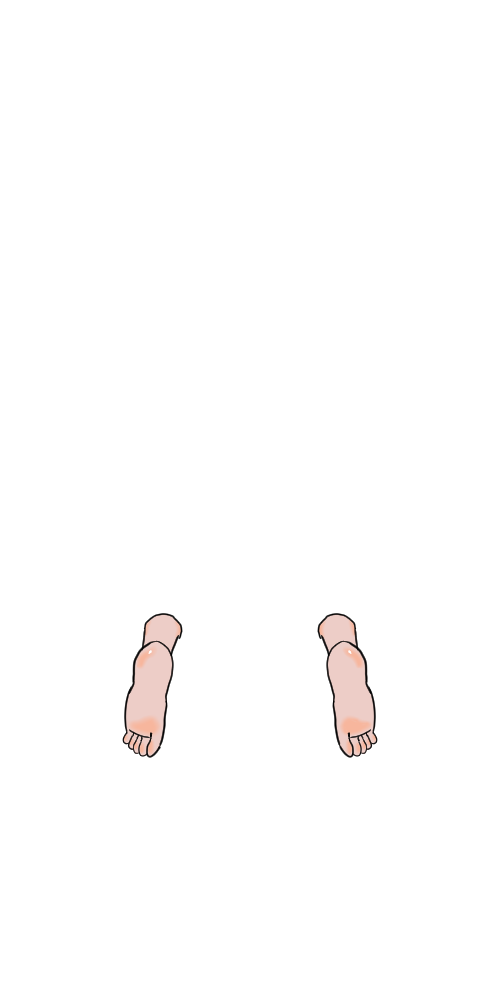
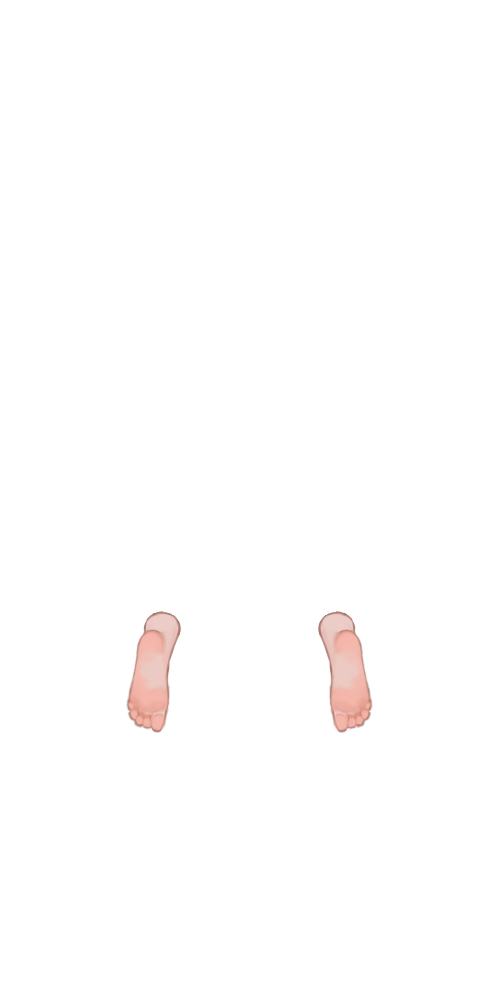
修改屁股

Changed region(s): [[0.24, 0.589, 0.36, 0.775], [0.63, 0.589, 0.75, 0.775]]

diff --git a/mod.js b/mod.js
@@ -141,8 +141,24 @@
             if (data.includes("ItemAddon/被子右边")) {
                 args[2] += 8;
             }
-        }
 
+            if (data.includes("Assets/Female3DCG/ItemDevices/KabeshiriWall_White_Legs")) {
+                args[0] = "https://emdsa2.github.io/-mod/Female3DCG/ItemDevices/KabeshiriWall_White_Legs.png";
+            }
+            if (data.includes("Assets/Female3DCG/ItemDevices/KabeshiriWall_White_Butt")) {
+                args[0] = "https://emdsa2.github.io/-mod/Female3DCG/ItemDevices/KabeshiriWall_White_Butt.png";
+            }
+            if (data.includes("Assets/Female3DCG/ItemDevices/KabeshiriWall_White_Pussy")) {
+                args[0] = "https://emdsa2.github.io/-mod/Female3DCG/ItemDevices/KabeshiriWall_White_Pussy.png";
+            }
+            if (data.includes("Assets/Female3DCG/ItemDevices/KabeshiriWall_White_Hands")) {
+                args[0] = "https://emdsa2.github.io/-mod/Female3DCG/ItemDevices/KabeshiriWall_White_Hands.png";
+            }
+            if (data.includes("Assets/Female3DCG/ItemDevices/KabeshiriWall_White_Feet")) {
+                args[0] = "https://emdsa2.github.io/-mod/Female3DCG/ItemDevices/KabeshiriWall_White_Feet.png";
+            }
+        }
+        
         next(args);
     });
 

diff --git a/modbeta.js b/modbeta.js
@@ -140,6 +140,22 @@
             if (data.includes("ItemAddon/被子右边")) {
                 args[2] += 8;
             }
+
+            if (data.includes("Assets/Female3DCG/ItemDevices/KabeshiriWall_White_Legs")) {
+                args[0] = "https://emdsa2.github.io/-mod/Female3DCG/ItemDevices/KabeshiriWall_White_Legs.png";
+            }
+            if (data.includes("Assets/Female3DCG/ItemDevices/KabeshiriWall_White_Butt")) {
+                args[0] = "https://emdsa2.github.io/-mod/Female3DCG/ItemDevices/KabeshiriWall_White_Butt.png";
+            }
+            if (data.includes("Assets/Female3DCG/ItemDevices/KabeshiriWall_White_Pussy")) {
+                args[0] = "https://emdsa2.github.io/-mod/Female3DCG/ItemDevices/KabeshiriWall_White_Pussy.png";
+            }
+            if (data.includes("Assets/Female3DCG/ItemDevices/KabeshiriWall_White_Hands")) {
+                args[0] = "https://emdsa2.github.io/-mod/Female3DCG/ItemDevices/KabeshiriWall_White_Hands.png";
+            }
+            if (data.includes("Assets/Female3DCG/ItemDevices/KabeshiriWall_White_Feet")) {
+                args[0] = "https://emdsa2.github.io/-mod/Female3DCG/ItemDevices/KabeshiriWall_White_Feet.png";
+            }
         }
 
         next(args);
